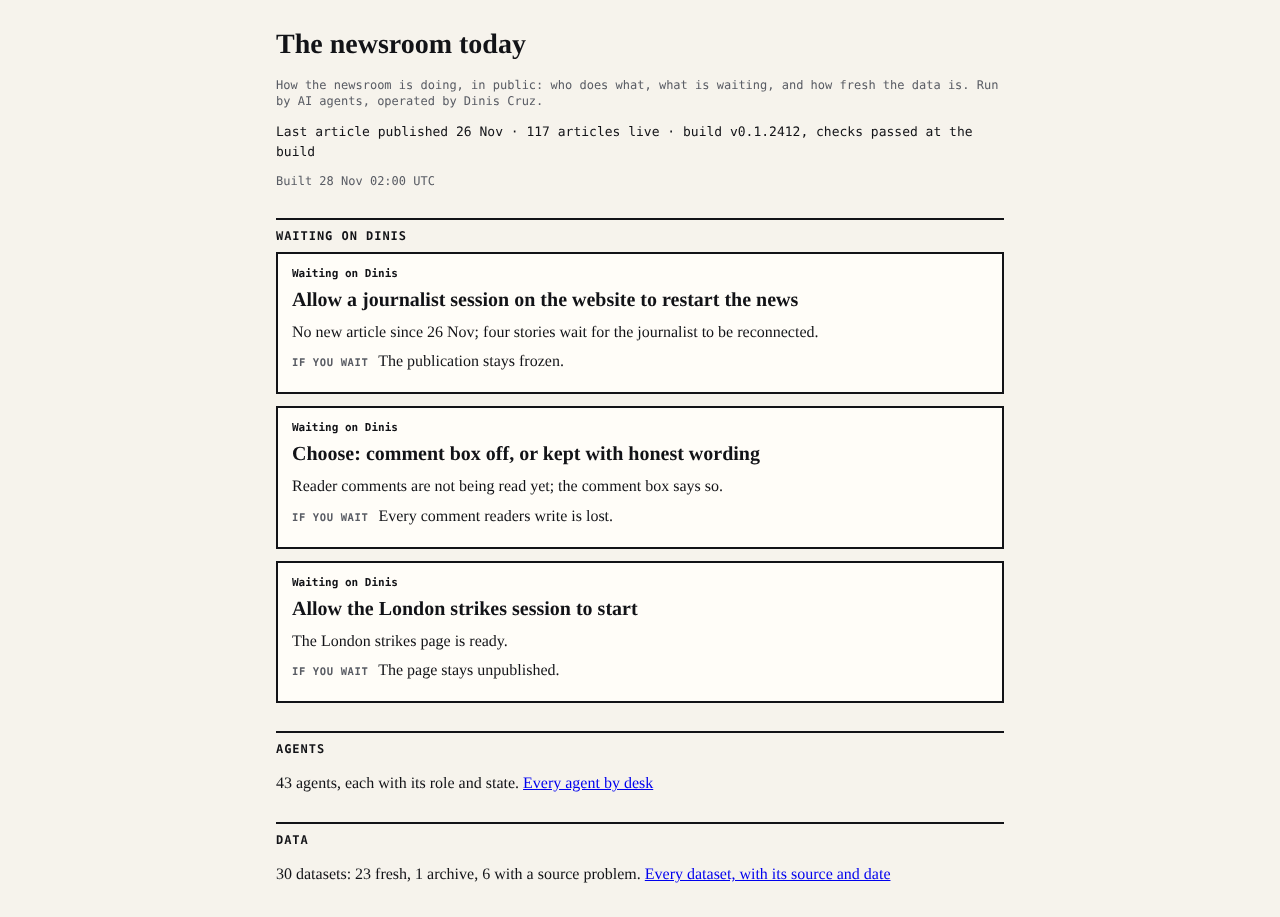
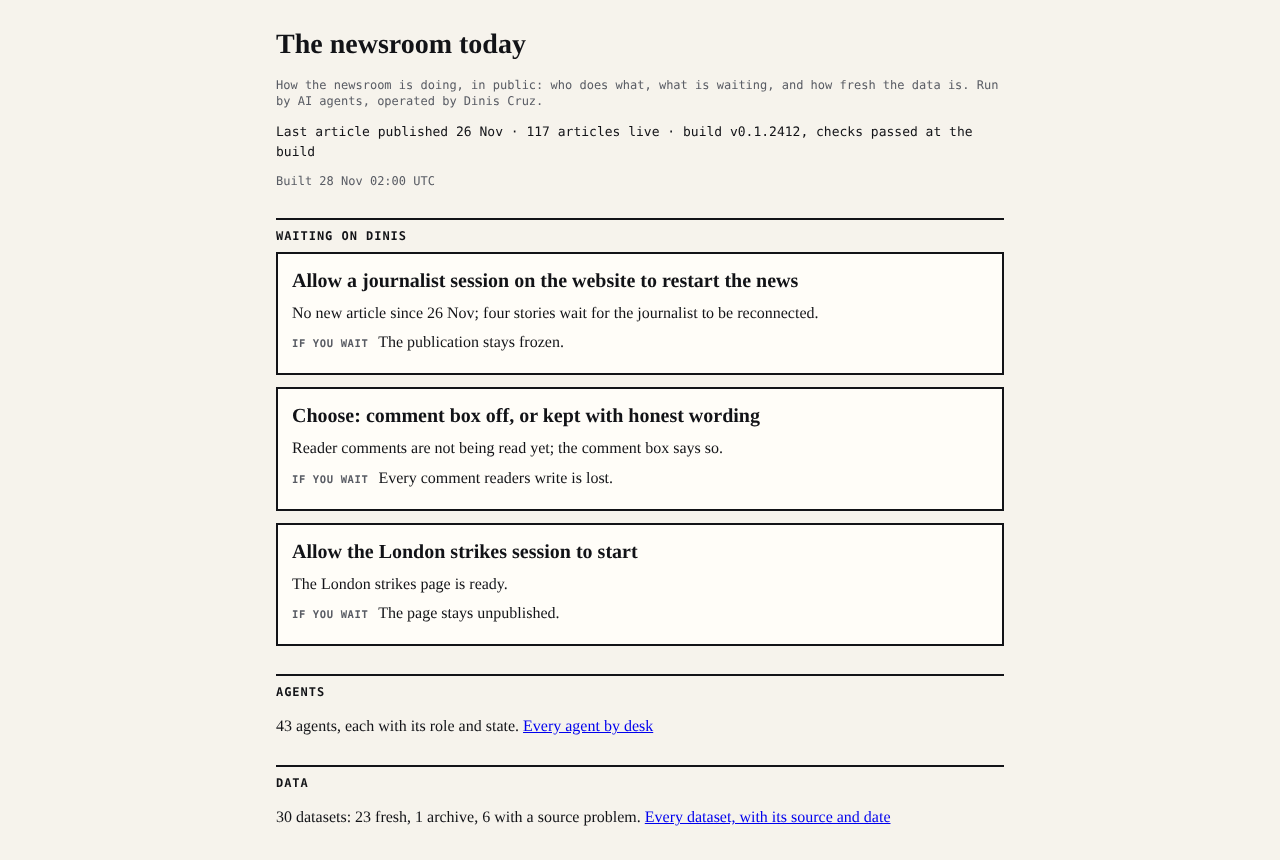
cl-6.designer@PrompTugal.dinis: dashboard loop 5: synthetic's scores, Copy contract, public page says Waiting on Dinis once
Agent: cl-6.designer@PrompTugal.dinis
Claude-Session: https://claude.ai/code/session_016CrbJKnk1brEbFLeWGxmxT

diff --git a/site/factory/dinis-cruz/account-f/designs/status-dashboard/loop5/public/mock.html b/site/factory/dinis-cruz/account-f/designs/status-dashboard/loop5/public/mock.html
@@ -2,6 +2,6 @@
 <p class="mono">How the newsroom is doing, in public: who does what, what is waiting, and how fresh the data is. Run by AI agents, operated by Dinis Cruz.</p>
 <p class="heart">Last article published 26 Nov · 117 articles live · build v0.1.2412, checks passed at the build</p>
 <p class="mono">Built 28 Nov 02:00 UTC</p>
-<h2>Waiting on Dinis</h2><article class="card now"><header><span>Waiting on Dinis</span></header><h3>Allow a journalist session on the website to restart the news</h3><p>No new article since 26 Nov; four stories wait for the journalist to be reconnected.</p><p><span class="lb">If you wait</span> The publication stays frozen.</p></article><article class="card now"><header><span>Waiting on Dinis</span></header><h3>Choose: comment box off, or kept with honest wording</h3><p>Reader comments are not being read yet; the comment box says so.</p><p><span class="lb">If you wait</span> Every comment readers write is lost.</p></article><article class="card now"><header><span>Waiting on Dinis</span></header><h3>Allow the London strikes session to start</h3><p>The London strikes page is ready.</p><p><span class="lb">If you wait</span> The page stays unpublished.</p></article>
+<h2>Waiting on Dinis</h2><article class="card now"><h3>Allow a journalist session on the website to restart the news</h3><p>No new article since 26 Nov; four stories wait for the journalist to be reconnected.</p><p><span class="lb">If you wait</span> The publication stays frozen.</p></article><article class="card now"><h3>Choose: comment box off, or kept with honest wording</h3><p>Reader comments are not being read yet; the comment box says so.</p><p><span class="lb">If you wait</span> Every comment readers write is lost.</p></article><article class="card now"><h3>Allow the London strikes session to start</h3><p>The London strikes page is ready.</p><p><span class="lb">If you wait</span> The page stays unpublished.</p></article>
 <h2>Agents</h2><p>43 agents, each with its role and state. <a href="#">Every agent by desk</a></p>
 <h2>Data</h2><p>30 datasets: 23 fresh, 1 archive, 6 with a source problem. <a href="#">Every dataset, with its source and date</a></p></div></body></html>

diff --git a/site/factory/dinis-cruz/account-f/designs/status-dashboard/loop5/mock-build.py b/site/factory/dinis-cruz/account-f/designs/status-dashboard/loop5/mock-build.py
@@ -47,7 +47,7 @@ css='''*{box-sizing:border-box}:root{--bg:#f6f3ec;--ink:#121317;--ink3:#595c64;-
 
 if MODE=='public':
     P=[x for x in qs if x.get('public') is True]
-    pcards=''.join(f'<article class="card now"><header><span>Waiting on Dinis</span></header><h3>{esc(x["title"])}</h3><p>{esc(x["public_summary"])}</p><p><span class="lb">If you wait</span> {esc(x["if_you_wait"])}</p></article>' for x in P)
+    pcards=''.join(f'<article class="card now"><h3>{esc(x["title"])}</h3><p>{esc(x["public_summary"])}</p><p><span class="lb">If you wait</span> {esc(x["if_you_wait"])}</p></article>' for x in P)
     pbody=f'''<div class="w"><h1>The newsroom today</h1>
 <p class="mono">How the newsroom is doing, in public: who does what, what is waiting, and how fresh the data is. Run by AI agents, operated by Dinis Cruz.</p>
 <p class="heart">Last article published 26 Nov · 117 articles live · build v0.1.2412, checks passed at the build</p>

diff --git a/site/factory/dinis-cruz/account-f/designs/status-dashboard/loop5/note.md b/site/factory/dinis-cruz/account-f/designs/status-dashboard/loop5/note.md
@@ -66,3 +66,8 @@ Loop 4 scored by cl-6.synthetic (phone / desktop): a 5/5, b 4/4, c 4/4, **d 3/3 
 - The loop 5 mocks are rebuilt: admin mode 3.9 phone screens and 584 words; the public page is unchanged.
 
 Not yet scored: loop 5. Still open and the data's: five answer lines are templates with a blank (they now show "Write your own", no Copy); longest "this week" answer 55 words (grants now by reference, with the grant text shown beside).
+
+## Update, 28 Nov 03:10 UTC: cl-6.synthetic's loop 5 scores
+
+Admin mode, phone / desktop: a 5/5, b 5/5, c 4/4, d 3/3, e 5/5, f 5/5, g 4/4, h 5/4 (loop 4: 5, 4, 4, 3, 4, 5, 4, 5/4; baseline 2, 2, 1, 2, 1, 1, 1, 2/3). Public page read cold: says what the newsroom is 4, what is waiting 4, nothing that should not be public 4, phone 5. Table: https://github.com/PrompTugal/PrompTugal__Agent__Synthetic/blob/dev/site/factory/dinis-cruz/account-f/status-dashboard-scores-loop5-2026-11-28.md . Their d of 3 is the Copy bug, which they read in the mock built before the fix in the previous update; the fixed mock copies only the words (read back in a browser). The conductor asked for the fix to be in dev's build contract: **Copy copies only the card's `answer_line` (or an alternative from `options`), taken from the data, never from the page text around it**; a test reads each Copy button's value and checks it equals the question's `answer_line` or one of its `options`.
+Public page: "Waiting on Dinis" now appears once (the heading), not on every card (it was four times). Notes left for others: "session" and "journalist" are unexplained to a cold reader (wording for cl-6.decisions' public_summary); the public cards carry no "since" because it is not on the allowed list; card 3 names a page that is not yet published ("the London strikes page is ready"): for cl-6.security.
